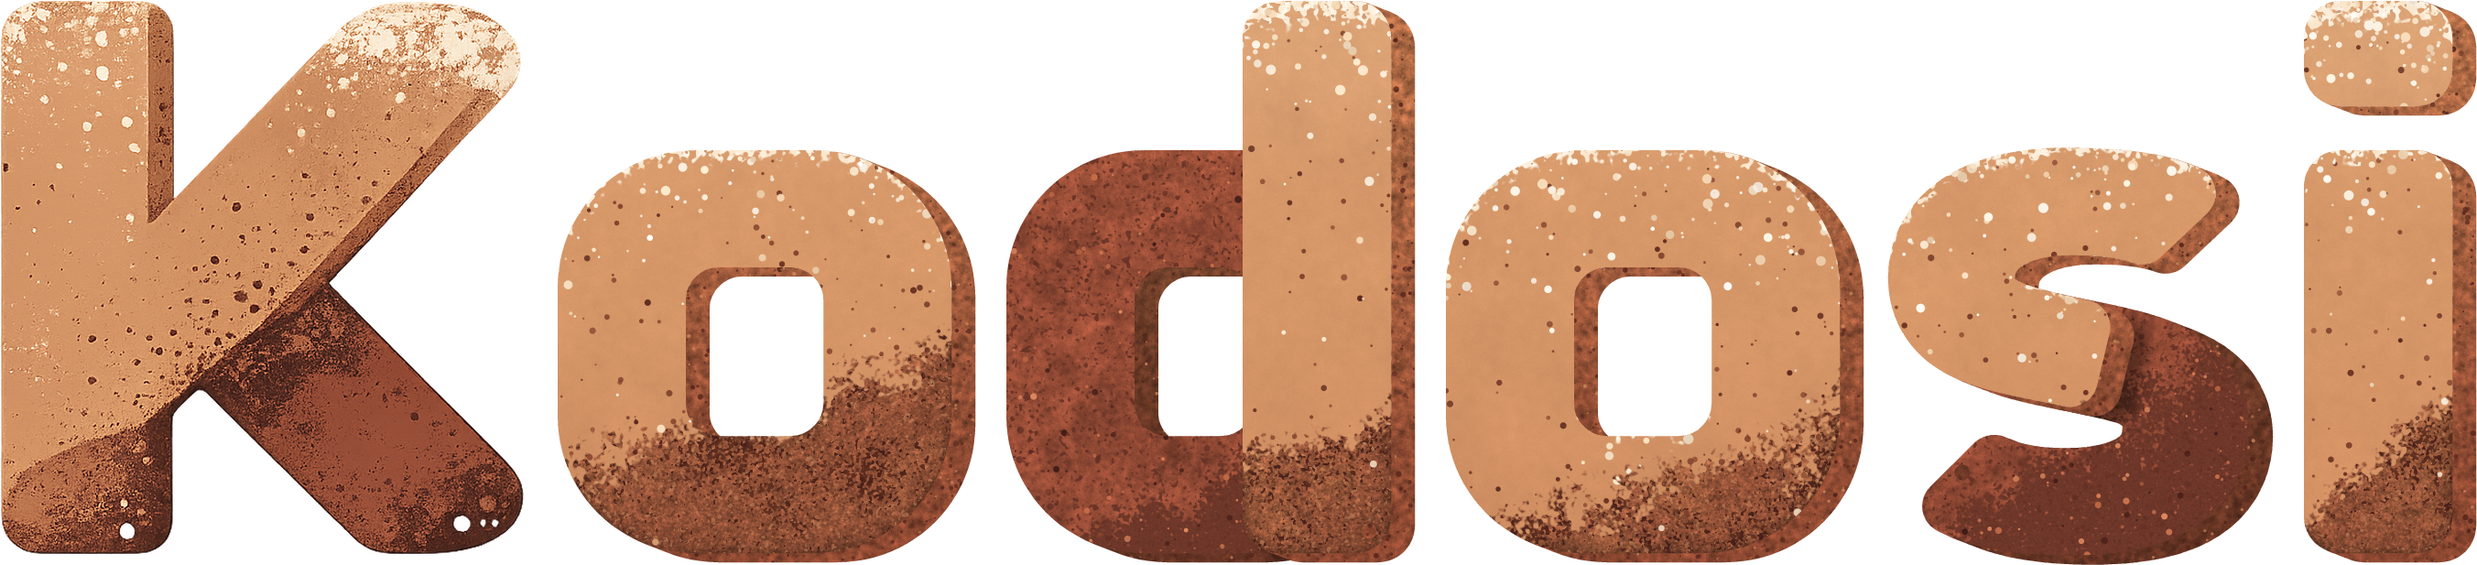
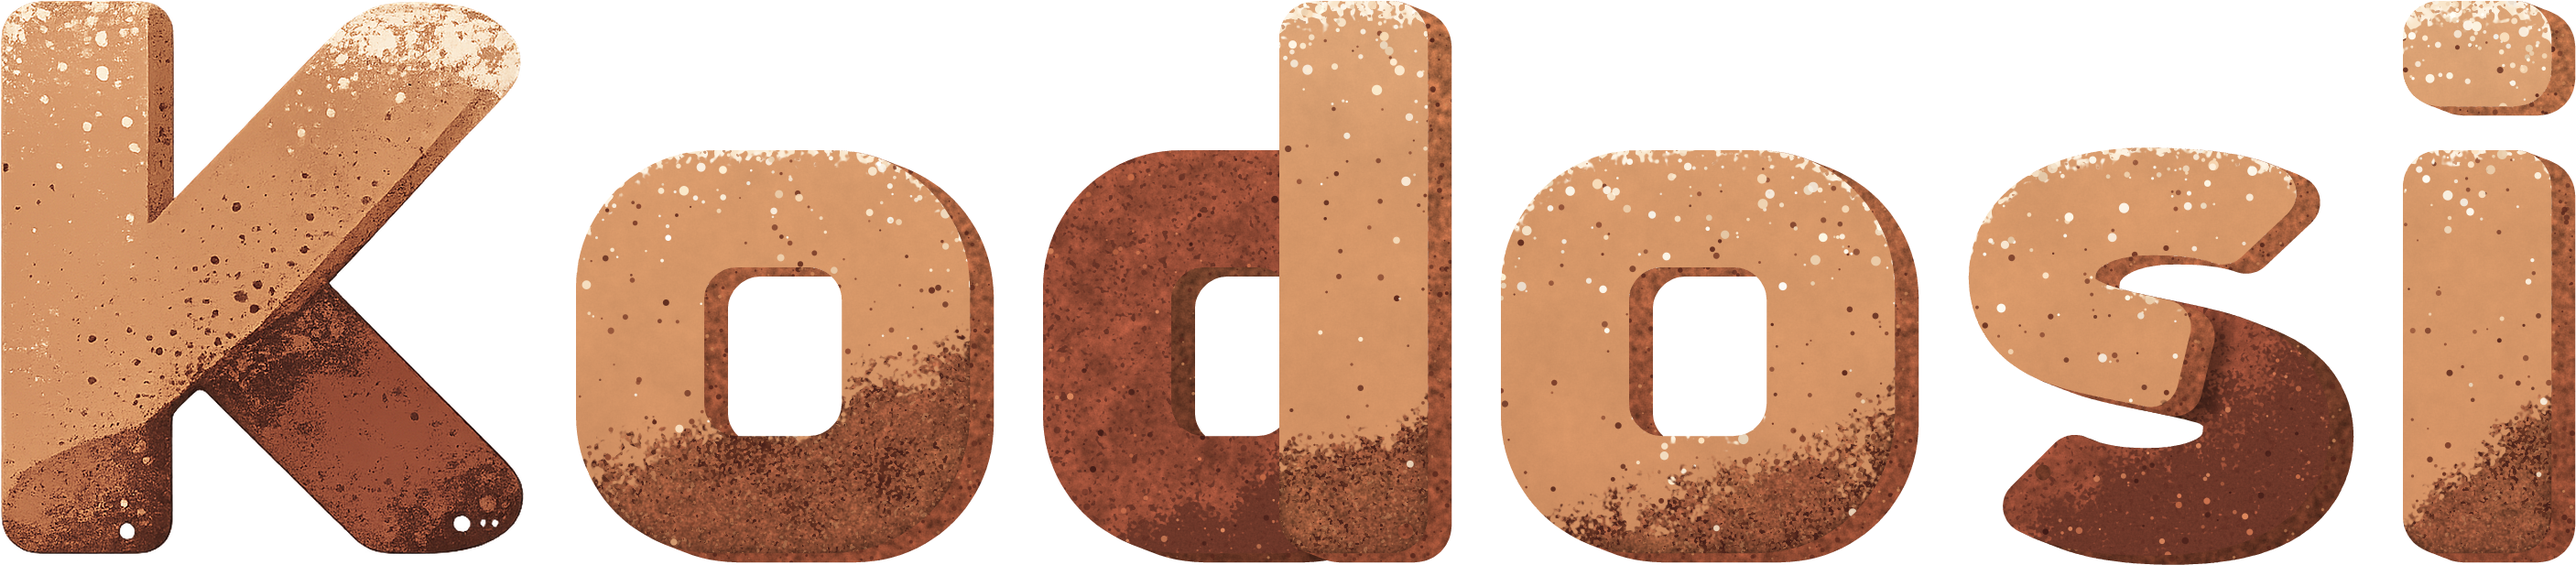
Give the letters of the wordmark a little more space
Each letter keeps its own pixels and moves right: 20 pixels more between
the letters of the 617-pixel master, and 28 between the o and the s, whose
round side looked closer. The sign-in pages, the e-mails, the apps, the
README banner and the master take the new picture and its width.

diff --git a/sign-in/src/styles.css b/sign-in/src/styles.css
@@ -345,7 +345,7 @@
 .logo-word {
   display: block;
   height: 100%;
-  aspect-ratio: 2705 / 617;
+  aspect-ratio: 2813 / 617;
   background: url("./assets/wordmark.webp") center / contain no-repeat;
 }
 /* The cursor stands on the line of the word, as tall as its small letters. */

diff --git a/clients/qt/src/qml/Controls/Wordmark.qml b/clients/qt/src/qml/Controls/Wordmark.qml
@@ -15,7 +15,7 @@ Row {
 
     Image {
         height: root.size * 1.2
-        width: height * 2705 / 617
+        width: height * 2813 / 617
         sourceSize.height: height * 2
         fillMode: Image.PreserveAspectFit
         smooth: true
